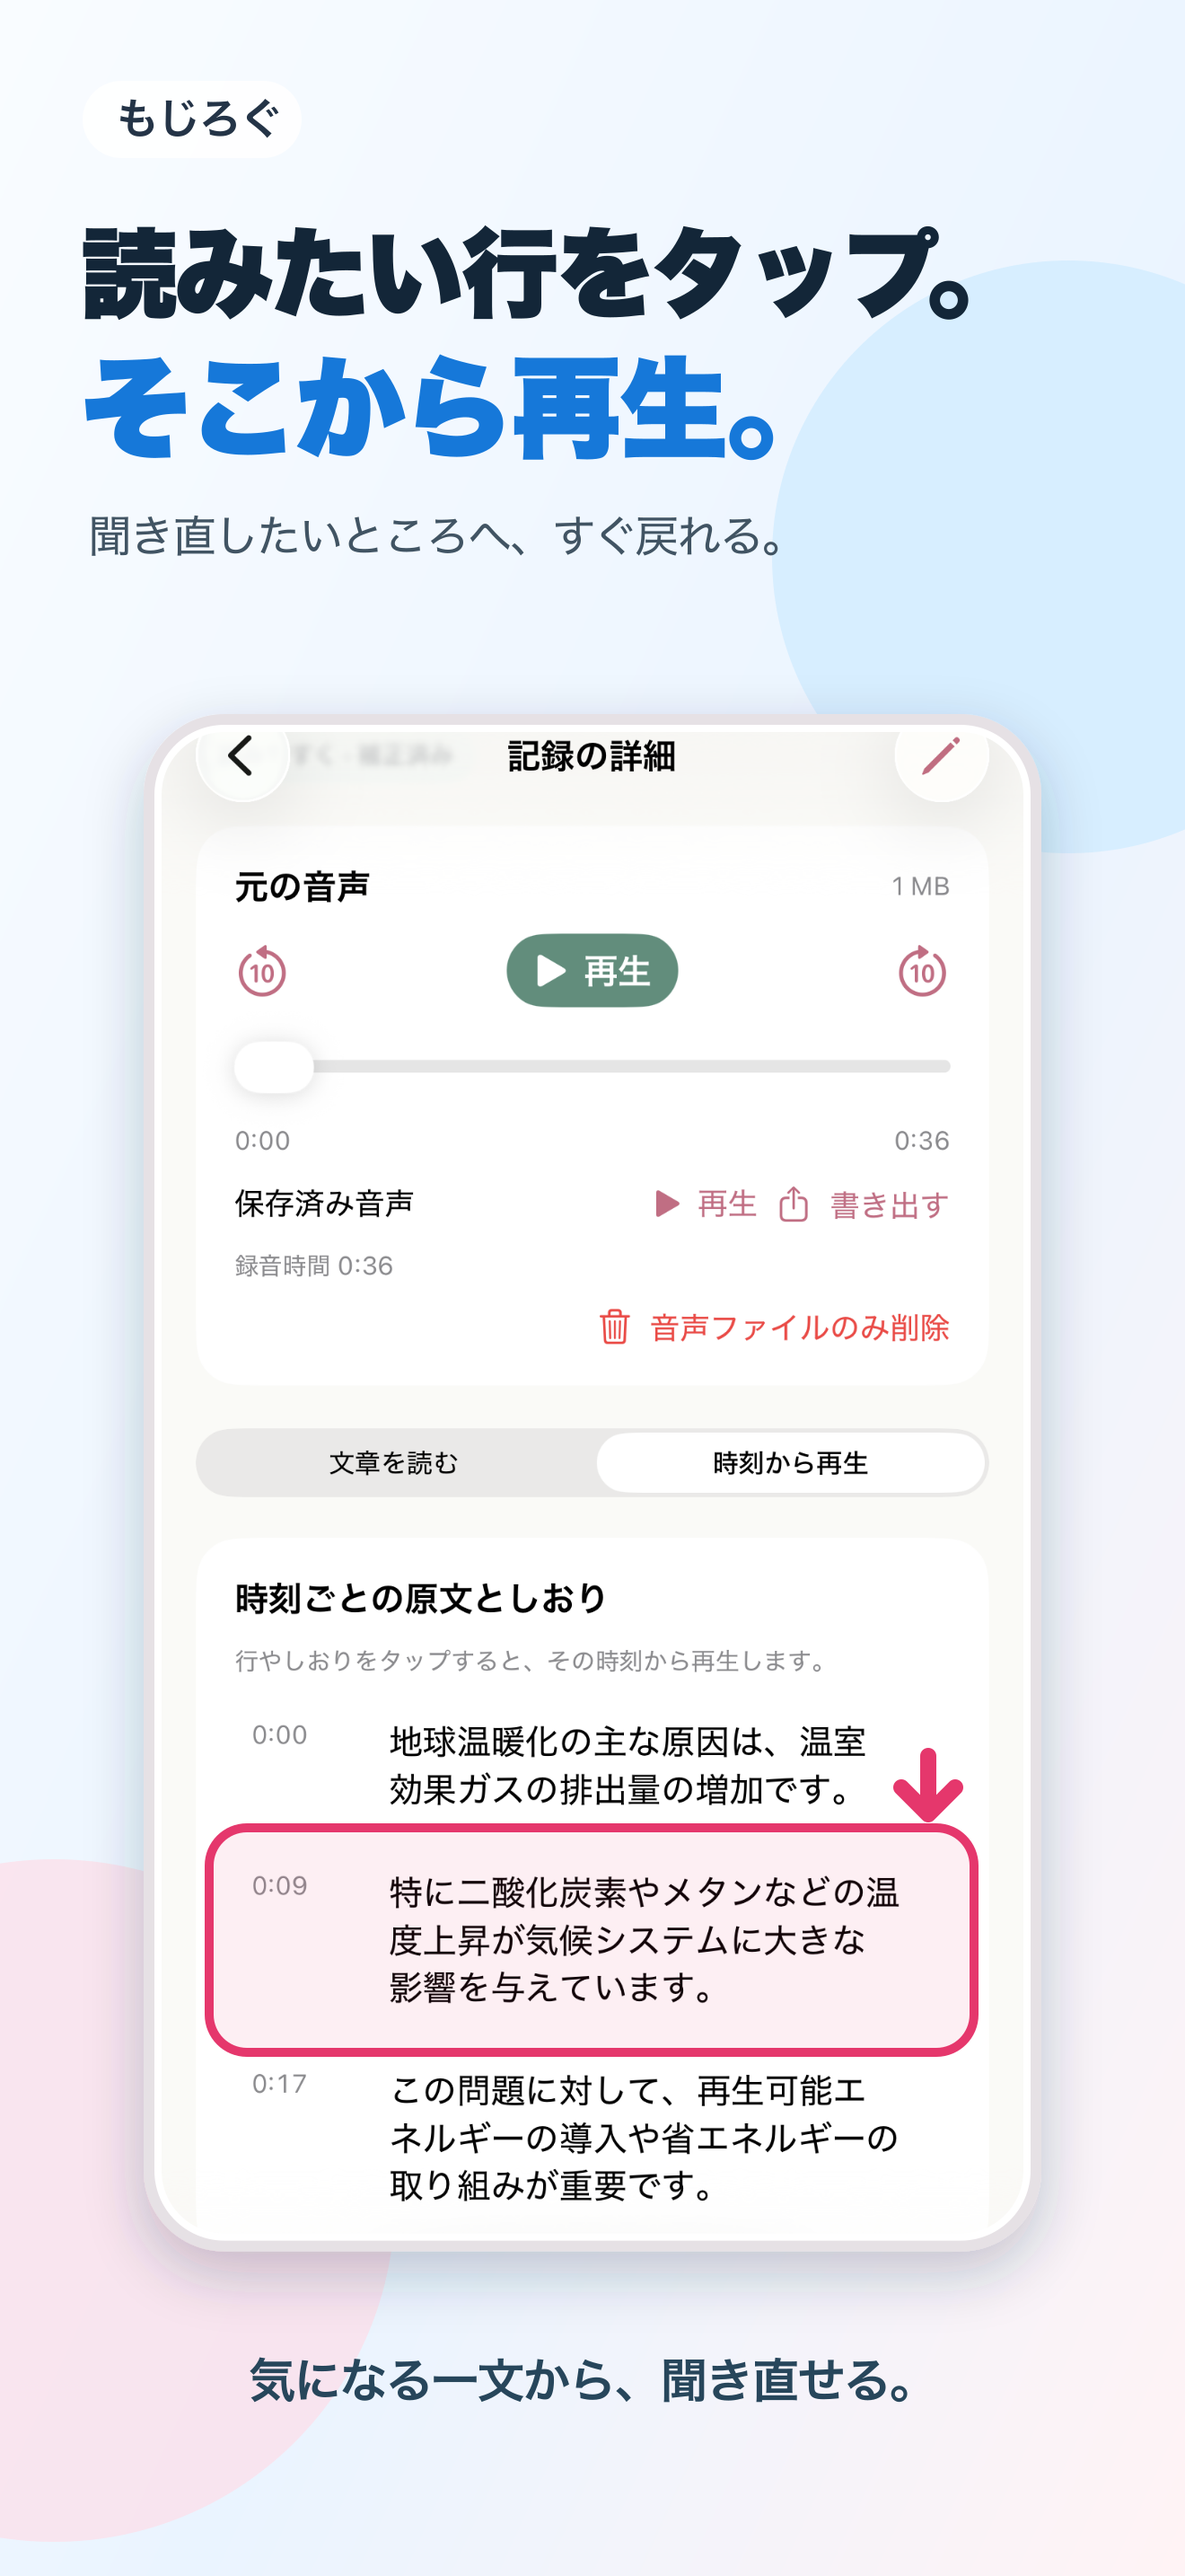
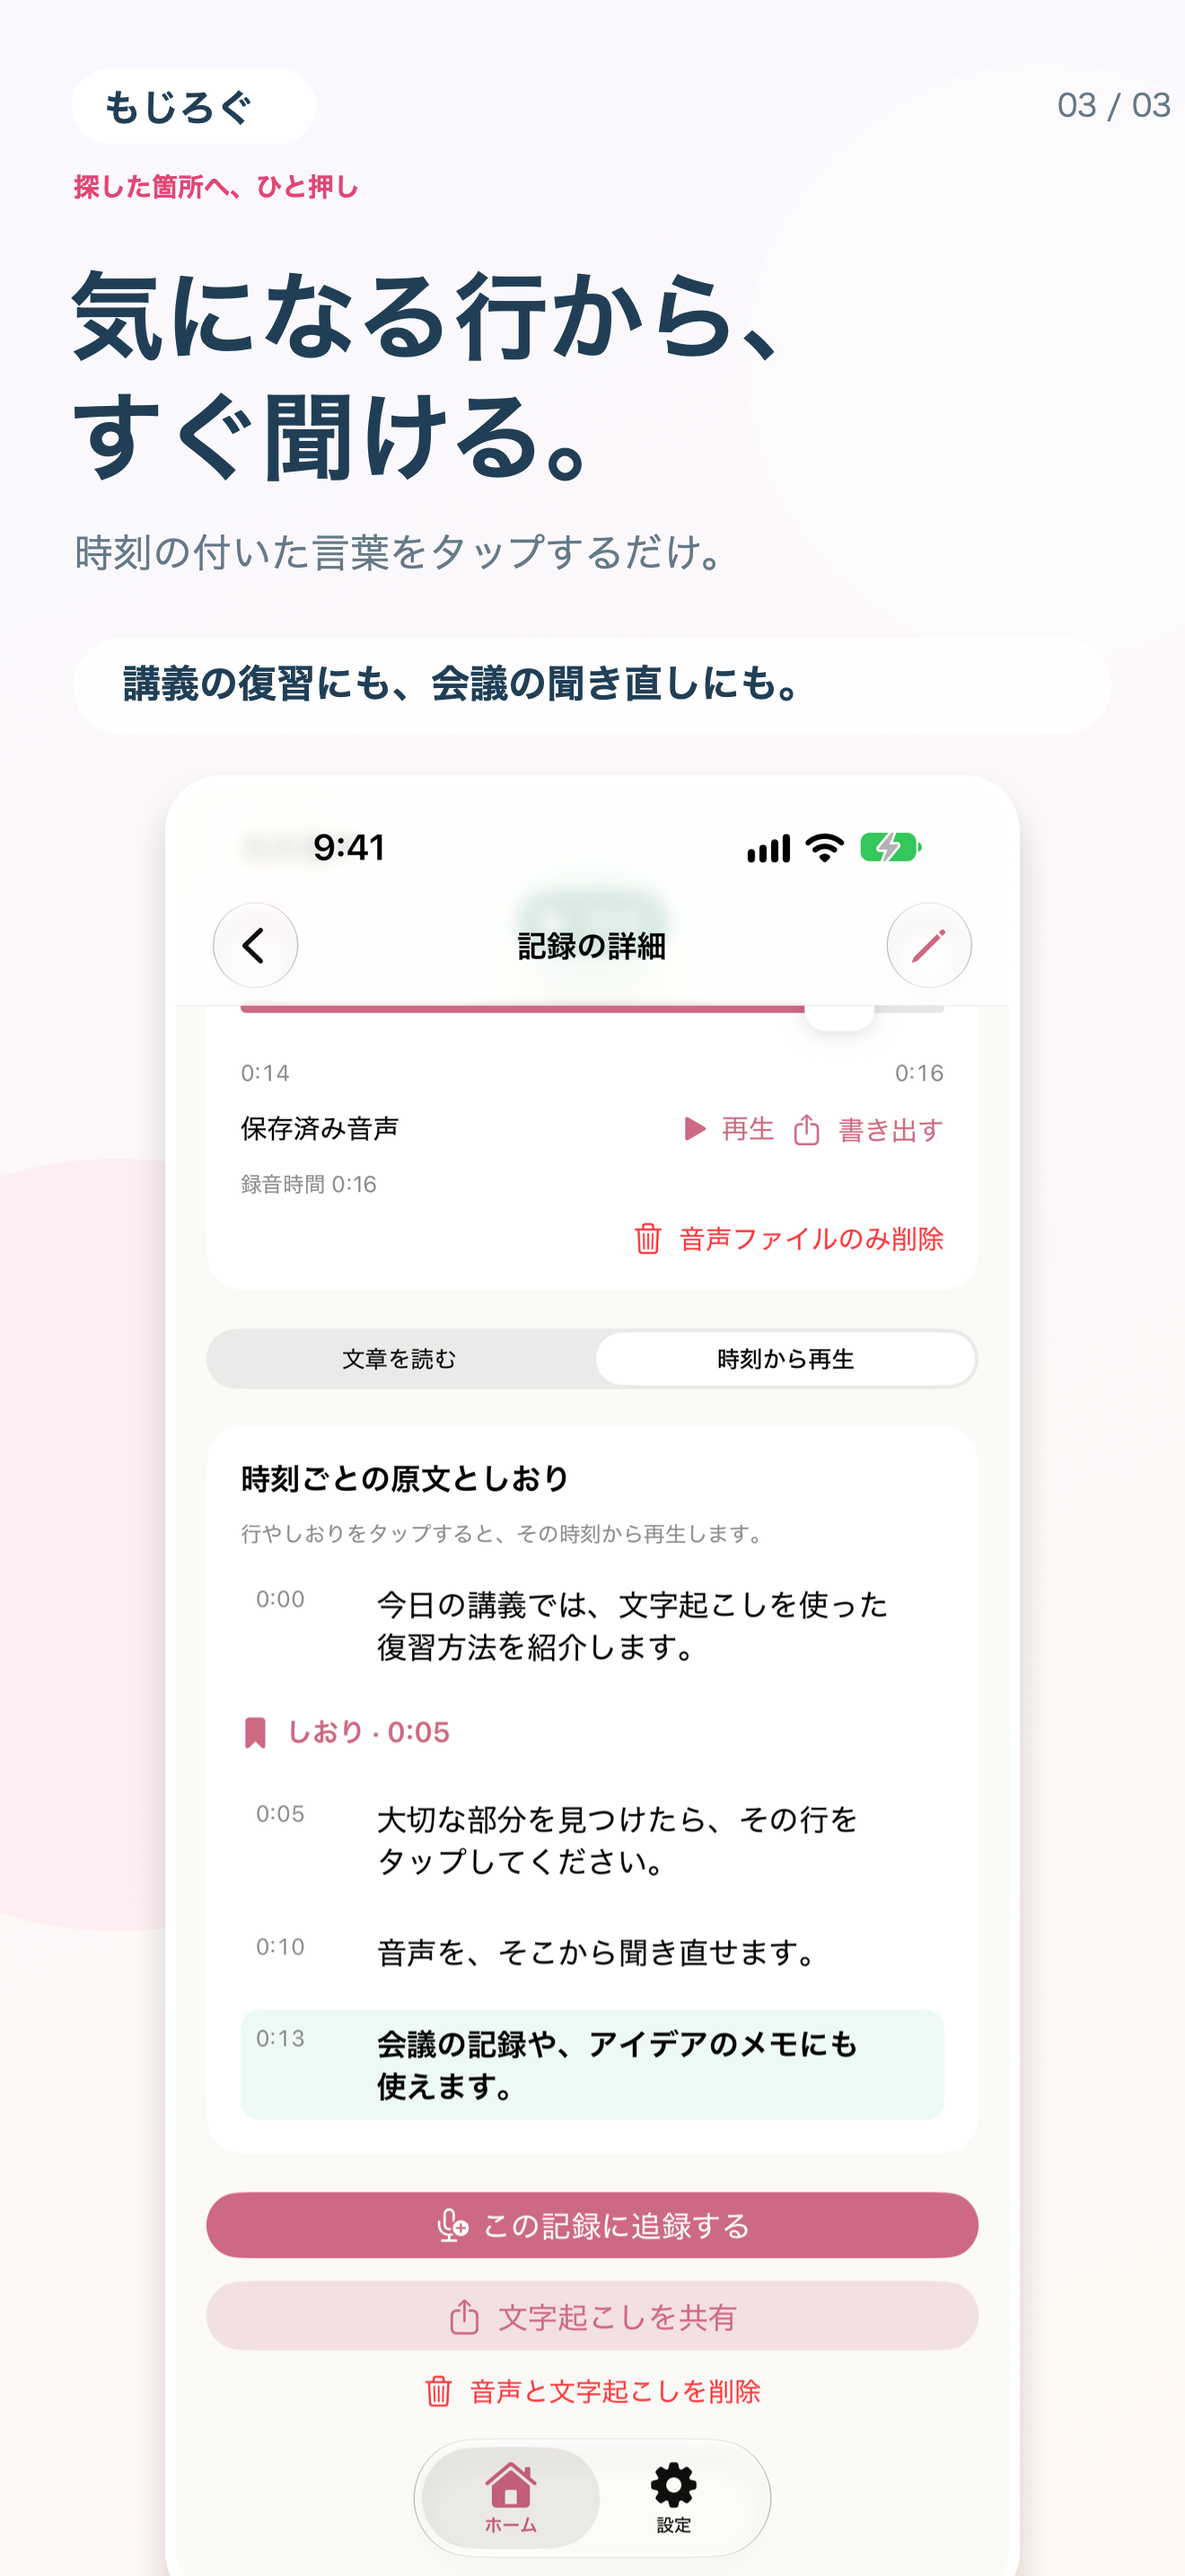
Refresh release site with current app imagery

diff --git a/public/index.html b/public/index.html
@@ -5,7 +5,7 @@
 <div class="wrap"><header class="site-header"><a class="brand" href="index.html"><span class="brand-mark">も</span>もじろぐ</a><nav class="nav" aria-label="メインナビゲーション"><a href="#features">機能</a><a href="privacy.html">プライバシー</a><a href="support.html">サポート</a></nav></header></div>
 <main>
 <section class="hero"><div class="wrap hero-grid"><div><span class="eyebrow">録音した声を、使える記録に。</span><h1><span>無料の録音・文字起こしアプリ</span>もじろぐ</h1><p class="lead">聞くことに集中しよう。</p><p class="sublead">話したことをその場で文字に。あとで文章を読み返し、気になる行から音声を再生できます。</p><span class="button button-pending" role="status">iPhoneで、もうすぐ公開</span><p class="hero-note">App Storeへのリンクは公開後に掲載します。</p></div>
-<div class="hero-art"><img class="hero-visual" src="images/hero.jpg" alt="講義に耳を傾ける人と、もじろぐの録音中画面" width="1320" height="2868"></div>
+<div class="hero-art"><img class="hero-visual" src="images/hero-illustration.png" alt="講義ノートを広げ、ヘッドホンで聞き返す人のイラスト" width="1145" height="1374"></div>
 </div></section>
 <section class="section" id="features"><div class="wrap"><div class="section-heading"><span class="kicker">Features</span><h2>録る。読む。そこから聞く。</h2><p>講義、会議、インタビュー。話の流れをあとからたどれます。</p></div><div class="features">
 <article class="feature"><div class="icon" aria-hidden="true">◉</div><h3>録音しながら文字に</h3><p>録音中は速報を表示。高精度方式では録音後に全文を仕上げます。</p></article>
@@ -13,9 +13,9 @@
 <article class="feature"><div class="icon" aria-hidden="true">⌑</div><h3>しおりで振り返る</h3><p>気になった瞬間に印を付けて、聞き返す場所を残せます。</p></article>
 <article class="feature"><div class="icon" aria-hidden="true">⇧</div><h3>音声と文章を持ち出す</h3><p>保存した音声の書き出しや、文字起こしのコピー・共有に対応。</p></article>
 </div></div></section>
-<section class="section screenshots-section" id="screenshots"><div class="wrap"><div class="section-heading"><span class="kicker">Inside the app</span><h2>実際の画面で見る、もじろぐ。</h2><p>実際のアプリ画面を使って、録音と聞き返しをご紹介します。</p></div><div class="screenshot-grid">
-<figure><img src="images/recording.png" alt="実機で撮影したもじろぐの録音中画面。話した内容が時刻とともに表示される" width="1320" height="2868" loading="lazy"><figcaption>録音しながら、いまの言葉を確認</figcaption></figure>
-<figure><img src="images/playback.png" alt="実機で撮影したもじろぐの記録の詳細画面。文字起こしの行からその時刻の音声を再生できる" width="1320" height="2868" loading="lazy"><figcaption>気になる行から、その場面を再生</figcaption></figure>
+<section class="section screenshots-section" id="screenshots"><div class="wrap"><div class="section-heading"><span class="kicker">Inside the app</span><h2>実際の画面で見る、もじろぐ。</h2><p>現行アプリの画面を使って、文字起こしと聞き返しをご紹介します。</p></div><div class="screenshot-grid">
+<figure><img src="images/recording.png" alt="現行アプリの録音・ファイル取り込みの選択画面と、保存した記録の文字起こし画面" width="1320" height="2868" loading="lazy"><figcaption>録音やファイルから、文字で読める記録に</figcaption></figure>
+<figure><img src="images/playback.png" alt="現行アプリの記録詳細画面。時刻付きの文字起こしの行から音声を再生できる" width="1320" height="2868" loading="lazy"><figcaption>気になる行から、その場面を再生</figcaption></figure>
 </div></div></section>
 <div class="wrap"><aside class="privacy-strip"><div><h2>声の記録は、あなたの手元に。</h2><p>記録は端末に保存されます。認識方法によりAppleのサーバーで処理される場合や、認識モデルを取得するためにHugging Faceへ通信する場合があります。</p></div><a class="text-link" href="privacy.html">データの扱いを見る ↗</a></aside></div>
 </main>

diff --git a/public/style.css b/public/style.css
@@ -12,7 +12,8 @@
 .site-header a[aria-current="page"]{text-decoration:underline;text-underline-offset:5px}
 @media(max-width:560px){.screenshot-grid{gap:15px}.screenshot-grid img{border-width:3px;border-radius:22px}.screenshot-grid figcaption{font-size:.72rem;line-height:1.5}}
 .hero-art{display:flex;align-items:center;justify-content:center}
-.hero-visual{display:block;width:100%;max-width:500px;height:560px;object-fit:cover;object-position:center 56%;border-radius:42px;box-shadow:20px 28px 65px #5b737129}
+.hero-visual{display:block;width:100%;max-width:500px;height:560px;object-fit:cover;object-position:center 56%;border-radius:42px;background:linear-gradient(135deg,#fff5ed,#f5e5e5);box-shadow:20px 28px 65px #5b737129}
 @media(max-width:800px){.hero-visual{height:440px;max-width:420px}}
 @media(max-width:560px){.hero-visual{height:350px;max-width:100%;border-radius:25px}}
 @media(max-width:560px){.screenshot-grid{grid-template-columns:1fr;gap:34px}.screenshot-grid img{max-width:310px;border-radius:30px}.screenshot-grid figcaption{font-size:.85rem}}
+@media(max-width:560px){.site-header{gap:8px}.brand{font-size:1rem;white-space:nowrap}.brand-mark{width:28px;height:28px;margin-right:5px}.nav{gap:9px;flex-shrink:0}.nav a{font-size:.68rem;white-space:nowrap}}
